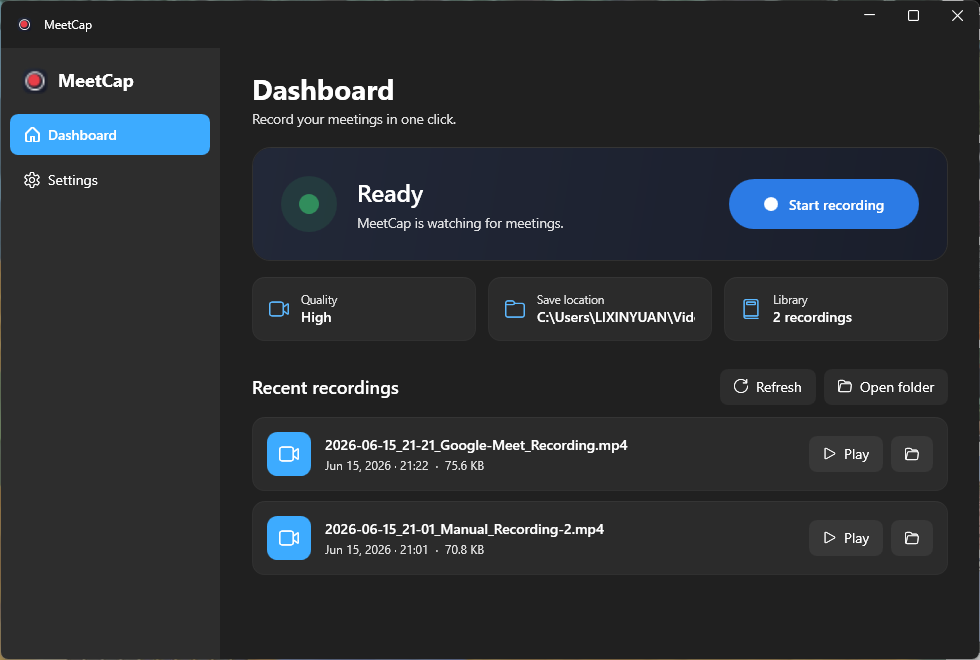
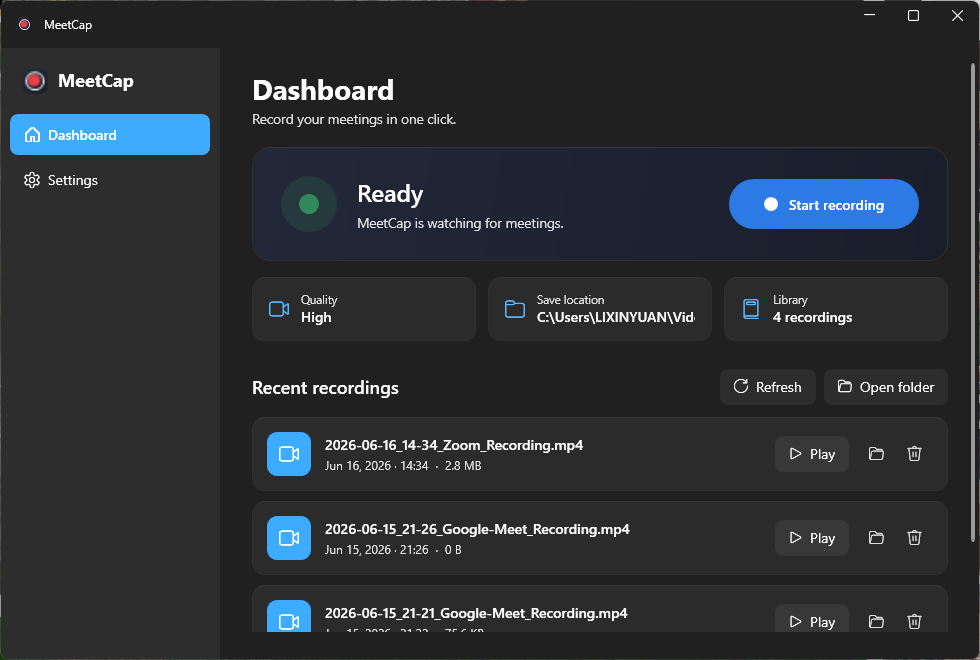
add dashboard

diff --git a/src/MeetCap/Views/DashboardView.xaml b/src/MeetCap/Views/DashboardView.xaml
@@ -69,6 +69,69 @@
             <Setter Property="BorderBrush" Value="{DynamicResource ControlElevationBorderBrush}" />
             <Setter Property="BorderThickness" Value="1" />
         </Style>
+
+        <!-- Recording row card with hover highlight -->
+        <Style x:Key="RecordingCard" TargetType="Border">
+            <Setter Property="CornerRadius" Value="12" />
+            <Setter Property="Padding" Value="14" />
+            <Setter Property="Margin" Value="0,0,0,10" />
+            <Setter Property="Background" Value="{DynamicResource CardBackgroundFillColorDefaultBrush}" />
+            <Setter Property="BorderBrush" Value="{DynamicResource ControlElevationBorderBrush}" />
+            <Setter Property="BorderThickness" Value="1" />
+            <Style.Triggers>
+                <Trigger Property="IsMouseOver" Value="True">
+                    <Setter Property="Background" Value="{DynamicResource CardBackgroundFillColorSecondaryBrush}" />
+                    <Setter Property="BorderBrush" Value="{DynamicResource AccentControlElevationBorderBrush}" />
+                </Trigger>
+            </Style.Triggers>
+        </Style>
+
+        <!-- Compact square icon button -->
+        <Style x:Key="IconButton" TargetType="Button">
+            <Setter Property="Width" Value="36" />
+            <Setter Property="Height" Value="36" />
+            <Setter Property="Cursor" Value="Hand" />
+            <Setter Property="Foreground" Value="{DynamicResource TextFillColorSecondaryBrush}" />
+            <Setter Property="Background" Value="Transparent" />
+            <Setter Property="Template">
+                <Setter.Value>
+                    <ControlTemplate TargetType="Button">
+                        <Border x:Name="Bd" CornerRadius="8" Background="{TemplateBinding Background}">
+                            <ContentPresenter HorizontalAlignment="Center" VerticalAlignment="Center" />
+                        </Border>
+                        <ControlTemplate.Triggers>
+                            <Trigger Property="IsMouseOver" Value="True">
+                                <Setter TargetName="Bd" Property="Background" Value="{DynamicResource SubtleFillColorSecondaryBrush}" />
+                                <Setter Property="Foreground" Value="{DynamicResource TextFillColorPrimaryBrush}" />
+                            </Trigger>
+                        </ControlTemplate.Triggers>
+                    </ControlTemplate>
+                </Setter.Value>
+            </Setter>
+        </Style>
+
+        <!-- Destructive icon button (turns red on hover) -->
+        <Style x:Key="DangerIconButton" TargetType="Button" BasedOn="{StaticResource IconButton}">
+            <Style.Triggers>
+                <Trigger Property="IsMouseOver" Value="True">
+                    <Setter Property="Foreground" Value="White" />
+                </Trigger>
+            </Style.Triggers>
+            <Setter Property="Template">
+                <Setter.Value>
+                    <ControlTemplate TargetType="Button">
+                        <Border x:Name="Bd" CornerRadius="8" Background="{TemplateBinding Background}">
+                            <ContentPresenter HorizontalAlignment="Center" VerticalAlignment="Center" />
+                        </Border>
+                        <ControlTemplate.Triggers>
+                            <Trigger Property="IsMouseOver" Value="True">
+                                <Setter TargetName="Bd" Property="Background" Value="#FFE23E48" />
+                            </Trigger>
+                        </ControlTemplate.Triggers>
+                    </ControlTemplate>
+                </Setter.Value>
+            </Setter>
+        </Style>
     </UserControl.Resources>
 
     <ScrollViewer VerticalScrollBarVisibility="Auto" Padding="32,18,32,28">
@@ -265,9 +328,7 @@
                           Visibility="{Binding HasRecordings, Converter={StaticResource BoolToVisibilityConverter}}">
                 <ItemsControl.ItemTemplate>
                     <DataTemplate>
-                        <Border CornerRadius="12" Padding="14" Margin="0,0,0,10"
-                                Background="{DynamicResource CardBackgroundFillColorDefaultBrush}"
-                                BorderBrush="{DynamicResource ControlElevationBorderBrush}" BorderThickness="1">
+                        <Border Style="{StaticResource RecordingCard}">
                             <Grid>
                                 <Grid.ColumnDefinitions>
                                     <ColumnDefinition Width="Auto" />
@@ -304,11 +365,17 @@
                                             <TextBlock Text="Play" Margin="8,0,0,0" VerticalAlignment="Center" />
                                         </StackPanel>
                                     </Button>
-                                    <Button Style="{StaticResource IconTextButton}"
+                                    <Button Style="{StaticResource IconButton}" Margin="2,0,0,0"
                                             Command="{Binding DataContext.RevealRecordingCommand, RelativeSource={RelativeSource AncestorType=ItemsControl}}"
                                             CommandParameter="{Binding}"
                                             ToolTip="Show in folder">
-                                        <TextBlock Text="&#xE838;" FontFamily="{StaticResource Icons}" FontSize="14" VerticalAlignment="Center" />
+                                        <TextBlock Text="&#xE838;" FontFamily="{StaticResource Icons}" FontSize="15" VerticalAlignment="Center" />
+                                    </Button>
+                                    <Button Style="{StaticResource DangerIconButton}" Margin="2,0,0,0"
+                                            Command="{Binding DataContext.DeleteRecordingCommand, RelativeSource={RelativeSource AncestorType=ItemsControl}}"
+                                            CommandParameter="{Binding}"
+                                            ToolTip="Delete (move to Recycle Bin)">
+                                        <TextBlock Text="&#xE74D;" FontFamily="{StaticResource Icons}" FontSize="15" VerticalAlignment="Center" />
                                     </Button>
                                 </StackPanel>
                             </Grid>

diff --git a/src/MeetCap/Services/RecordingLibraryService.cs b/src/MeetCap/Services/RecordingLibraryService.cs
@@ -9,6 +9,8 @@ public interface IRecordingLibraryService
     IReadOnlyList<RecordingItem> GetRecent(int max = 25);
     void OpenFolder();
     void RevealInExplorer(string filePath);
+    /// <summary>Send a recording to the Recycle Bin (recoverable). Returns true on success.</summary>
+    bool Delete(string filePath);
 }
 
 public sealed class RecordingLibraryService : IRecordingLibraryService
@@ -51,5 +53,25 @@ public sealed class RecordingLibraryService : IRecordingLibraryService
             Shell.Run("explorer.exe", $"/select,\"{filePath}\"");
         else
             OpenFolder();
+    }
+
+    public bool Delete(string filePath)
+    {
+        try
+        {
+            if (File.Exists(filePath))
+            {
+                // Recycle Bin instead of permanent delete, so an accidental delete is recoverable.
+                Microsoft.VisualBasic.FileIO.FileSystem.DeleteFile(
+                    filePath,
+                    Microsoft.VisualBasic.FileIO.UIOption.OnlyErrorDialogs,
+                    Microsoft.VisualBasic.FileIO.RecycleOption.SendToRecycleBin);
+            }
+            return true;
+        }
+        catch
+        {
+            return false;
+        }
     }
 }

diff --git a/src/MeetCap/ViewModels/DashboardViewModel.cs b/src/MeetCap/ViewModels/DashboardViewModel.cs
@@ -138,5 +138,25 @@ public partial class DashboardViewModel : ObservableObject
     }
 
     [RelayCommand]
+    private void DeleteRecording(RecordingItem? item)
+    {
+        if (item is null) return;
+
+        var answer = System.Windows.MessageBox.Show(
+            $"Move this recording to the Recycle Bin?\n\n{item.FileName}",
+            "Delete recording", System.Windows.MessageBoxButton.YesNo,
+            System.Windows.MessageBoxImage.Question);
+        if (answer != System.Windows.MessageBoxResult.Yes)
+            return;
+
+        if (_library.Delete(item.FilePath))
+            RefreshRecordings();
+        else
+            System.Windows.MessageBox.Show(
+                "Couldn't delete the file — it may be open in another app.",
+                "MeetCap", System.Windows.MessageBoxButton.OK, System.Windows.MessageBoxImage.Warning);
+    }
+
+    [RelayCommand]
     private void Refresh() => RefreshRecordings();
 }